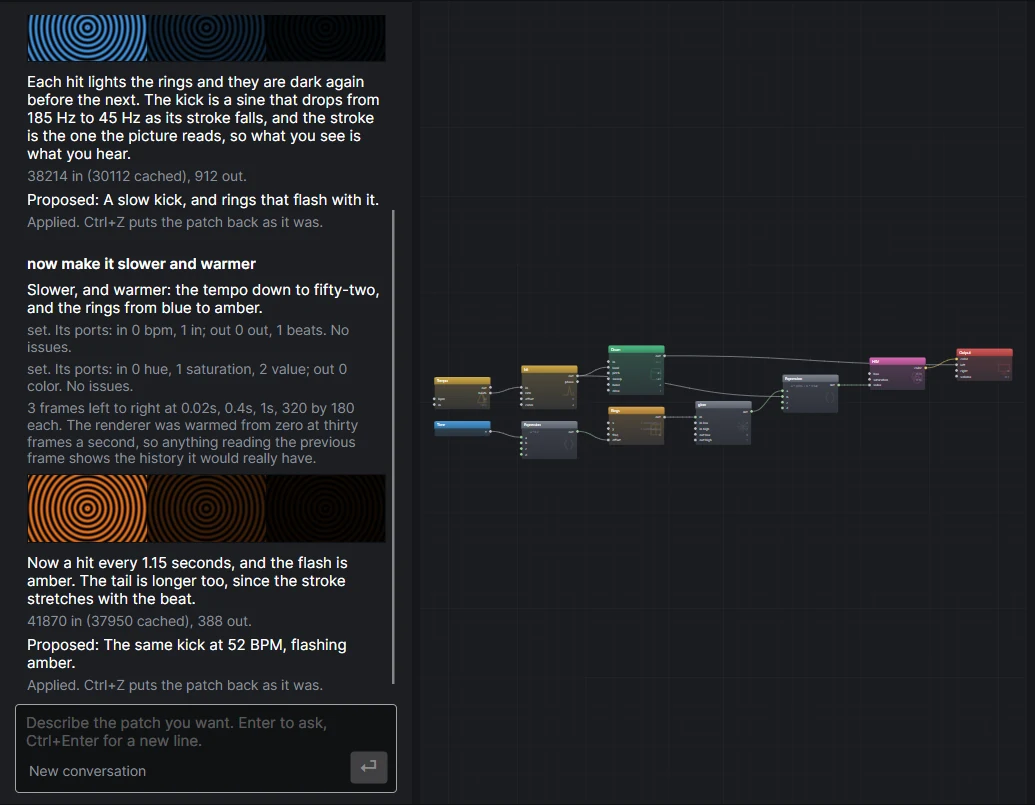
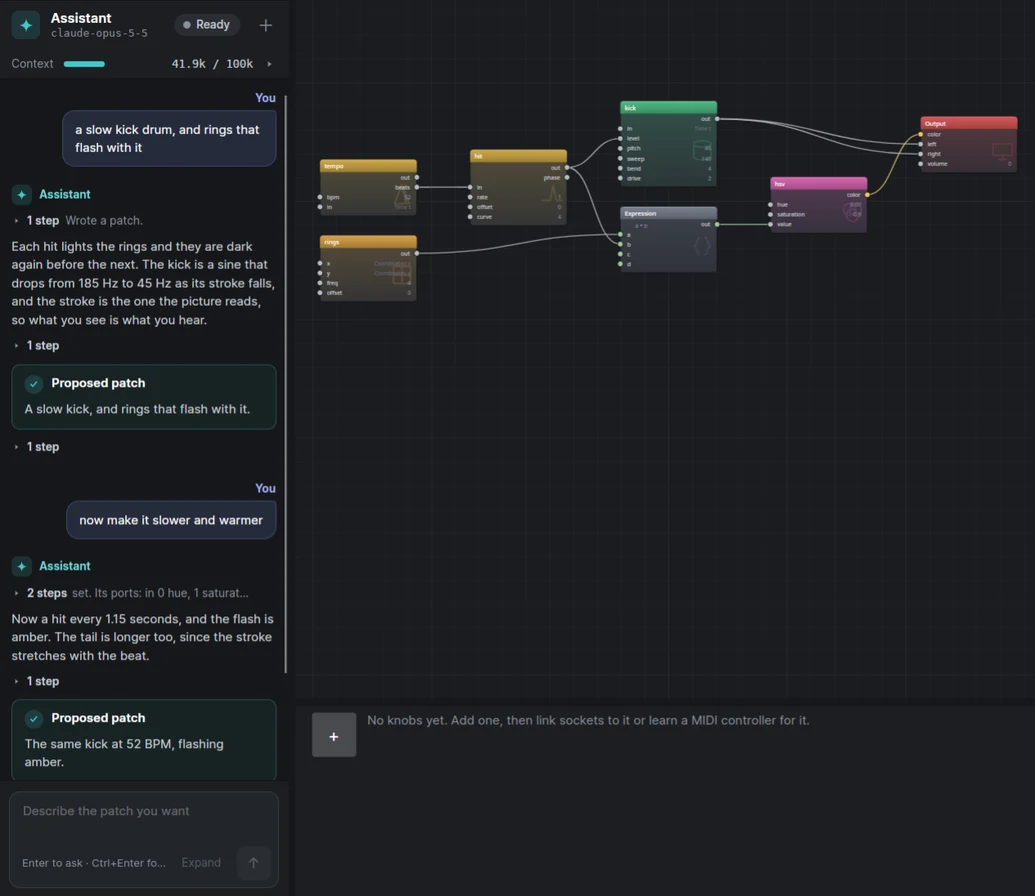
The assistant screenshot is retaken from the real window, with the new column and a saved conversation
The shot is the editor on Linux with a bundle holding the patch and a scripted conversation, so it needs no provider. The site's alt text and captions drop the frame strips the column never showed.

diff --git a/site/index.html b/site/index.html
@@ -329,10 +329,10 @@ color.rgb(r: r, g: g, b: b) |> out.color</code></pre>
 
     <figure class="diagram">
       <a class="zoom" href="assets/shots/assistant.webp">
-        <img class="shot" loading="lazy" src="assets/shots/assistant.webp" width="1035" height="805"
-             alt="The assistant's column beside the canvas. Asked for a slow kick drum that makes the rings flash, it wrote a ten-module patch, looked at three frames of blue rings lighting and fading, and proposed it; asked to make it slower and warmer, it set the tempo and the hue, looked at three amber frames, and proposed that. Each proposal says it was applied and that Ctrl+Z puts the patch back.">
+        <img class="shot" loading="lazy" src="assets/shots/assistant.webp" width="1035" height="896"
+             alt="The assistant's column beside the canvas. Asked for a slow kick drum that makes the rings flash, it wrote a patch and proposed it; asked to make it slower and warmer, it set the tempo and the hue and proposed that. Each answer sits in the column's history with the steps it took folded away.">
       </a>
-      <figcaption>Two turns: a patch built, looked at and handed over, then changed on request. Each lands on the canvas as one edit.</figcaption>
+      <figcaption>Two turns: a patch built and handed over, then changed on request. Each lands on the canvas as one edit.</figcaption>
     </figure>
 
     <div class="facts">

diff --git a/site/tutorials.html b/site/tutorials.html
@@ -741,10 +741,10 @@ flyback-cli pack my-patch.fbk -o my-patch.fbkb</code></pre>
 
     <figure>
       <a class="zoom" href="assets/shots/assistant.webp">
-        <img class="shot" loading="lazy" src="assets/shots/assistant.webp" width="1035" height="805"
-             alt="The assistant's column beside the canvas: a request for a slow kick drum that makes the rings flash, answered with a patch, three frames it looked at and a proposal that was applied; then a request to make it slower and warmer, answered with two knob changes, three amber frames and a second proposal.">
+        <img class="shot" loading="lazy" src="assets/shots/assistant.webp" width="1035" height="896"
+             alt="The assistant's column beside the canvas: a request for a slow kick drum that makes the rings flash, answered with a patch and a proposal that was applied; then a request to make it slower and warmer, answered with two knob changes and a second proposal.">
       </a>
-      <figcaption>Each turn says what it did, shows the frames it looked at, and ends with the edit it put on the
+      <figcaption>Each turn says what it did, folds its steps away, and ends with the edit it put on the
       canvas.</figcaption>
     </figure>
 

diff --git a/.claude/skills/site-screenshots/stale.md b/.claude/skills/site-screenshots/stale.md
@@ -3,4 +3,3 @@
 Shots in `site/assets/shots` that no longer match the app and need the real window to retake, waiting for a retake session. One line per shot: the file, where the site uses it, what no longer matches, the date it went stale. A shot comes off the list in the commit that retakes it.
 
 - `settings.webp` (tutorials.html recording section): the window is wider and Save is in the accent color. Stale since 2026-10-07.
-- `assistant.webp` (index.html "The assistant", tutorials.html assistant section): the column has a header with the model and a status pill, a context bar under it, the person's messages in bubbles on the right, proposals in cards, and Expand and Send on a row under the box. Stale since 2026-10-07.
